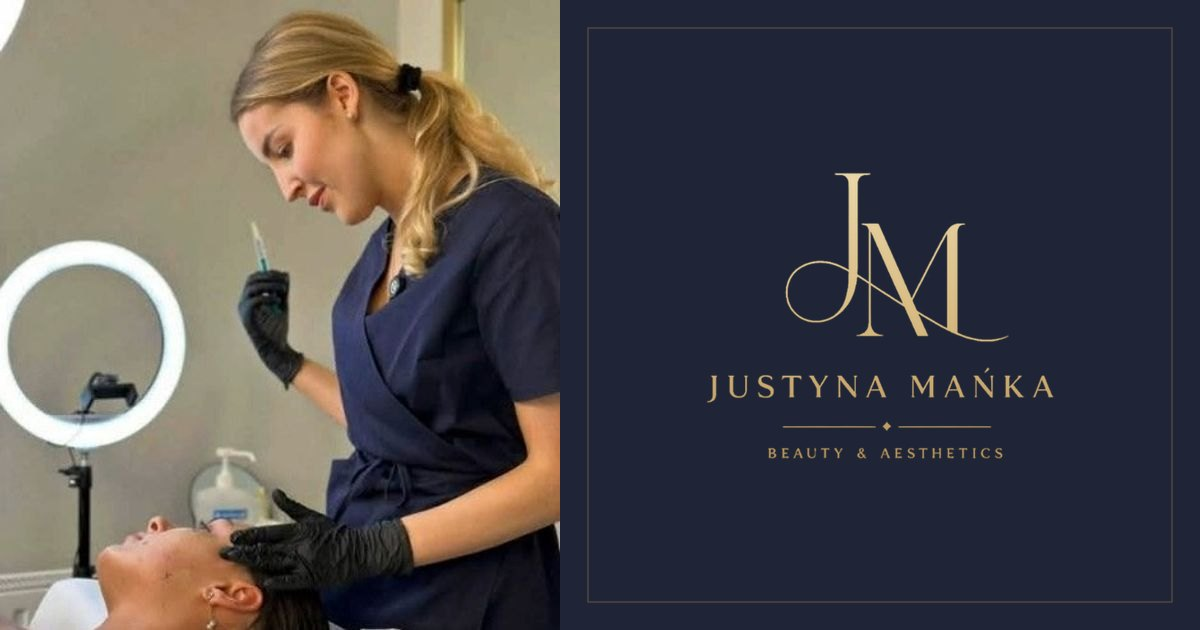
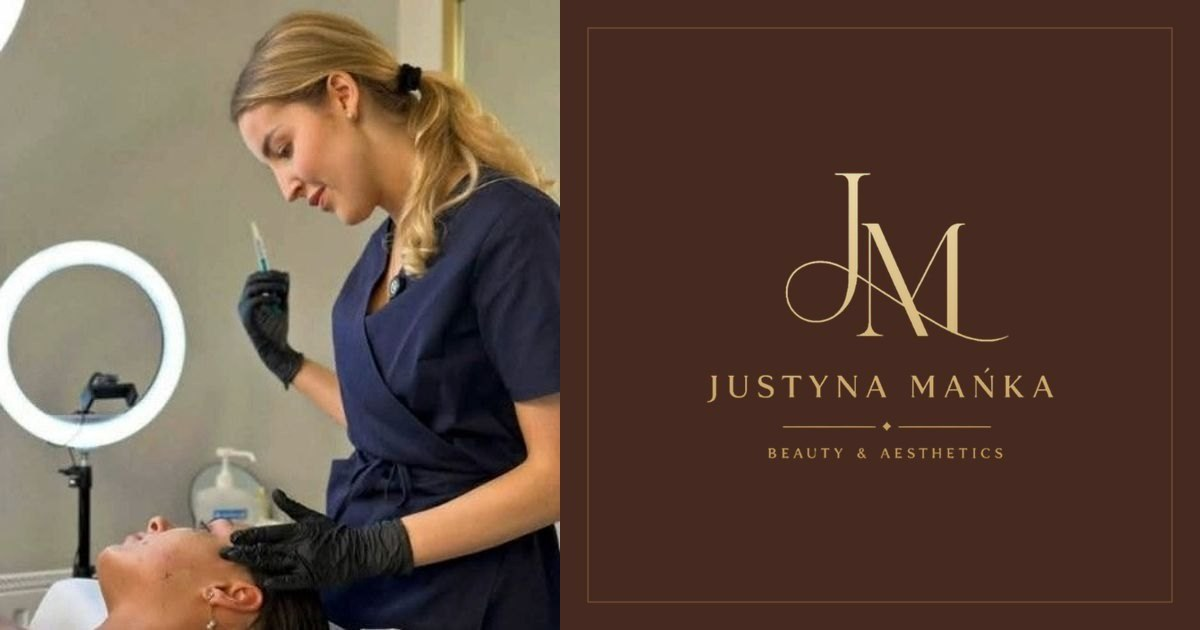
Czekoladowy brąz zamiast granatu
Kolor przewodni #462a1f (ze zdjęcia), jaśniejszy #5e443a do tekstów
pomocniczych. Zmienione też logo, ikonka strony, obrazek do udostępniania,
e-maile i wykresy w statystykach. Opis nowych funkcji w README.

Claude-Session: https://claude.ai/code/session_01Qo417vh74c6erCYT5kRkXh

diff --git a/assets/css/style.css b/assets/css/style.css
@@ -4,7 +4,7 @@
 @font-face { font-family: "Jost"; src: url("../fonts/jost.woff") format("woff"); font-weight: 100 900; font-style: normal; font-display: swap; }
 
 /* Justyna Mańka Beauty & Aesthetics — style strony
-   Paleta: ciepła biel i piasek z granatem z gabinetowego uniformu. */
+   Paleta: ciepła biel i piasek z czekoladowym brązem i złotem. */
 
 :root {
   --milk: #fbf8f3;
@@ -13,8 +13,8 @@
   --sand-deep: #e9dfd1;
   --linen: #ddd0be;
   --taupe: #6f6155;
-  --ink: #1f2536;
-  --ink-2: #353d52;
+  --ink: #462a1f;
+  --ink-2: #5e443a;
   --brass: #9c7d52;
   --ok: #3e6a50;
   --err: #9b3a2f;
@@ -397,7 +397,7 @@ body.menu-open { overflow: hidden; }
 .form-msg.ok { border-color: var(--ok); background: #eaf1ec; color: var(--ok); }
 
 .switch { appearance: none; width: 44px; height: 26px; border-radius: 999px; background: var(--linen); position: relative; cursor: pointer; flex-shrink: 0; transition: background-color .2s; margin: 0; }
-.switch::after { content: ""; position: absolute; top: 3px; left: 3px; width: 20px; height: 20px; border-radius: 50%; background: var(--paper); transition: transform .2s var(--ease); box-shadow: 0 1px 2px rgba(31, 37, 54, .2); }
+.switch::after { content: ""; position: absolute; top: 3px; left: 3px; width: 20px; height: 20px; border-radius: 50%; background: var(--paper); transition: transform .2s var(--ease); box-shadow: 0 1px 2px rgba(70, 42, 31, .2); }
 .switch:checked { background: var(--ink); }
 .switch:checked::after { background: var(--gold); }
 .switch:checked::after { transform: translateX(18px); }
@@ -411,12 +411,12 @@ body.menu-open { overflow: hidden; }
 
 /* ---------- Okna dialogowe, cookies, komunikaty ---------- */
 .modal { border: 0; padding: 0; background: var(--milk); color: var(--ink); max-width: min(560px, calc(100vw - 32px)); width: 100%; }
-.modal::backdrop { background: rgba(31, 37, 54, .5); }
+.modal::backdrop { background: rgba(70, 42, 31, .5); }
 .modal-body { padding: 32px; }
 .modal-body h2 { font-size: 1.875rem; }
 .modal-actions { display: flex; gap: 12px; flex-wrap: wrap; margin-top: 24px; }
 
-.cookie-banner { position: fixed; z-index: 60; left: 16px; bottom: 16px; max-width: 520px; background: var(--paper); border: 1px solid var(--linen); padding: 24px; box-shadow: 0 18px 50px rgba(31, 37, 54, .14); }
+.cookie-banner { position: fixed; z-index: 60; left: 16px; bottom: 16px; max-width: 520px; background: var(--paper); border: 1px solid var(--linen); padding: 24px; box-shadow: 0 18px 50px rgba(70, 42, 31, .14); }
 .cookie-banner h2 { font-size: 1.375rem; margin-bottom: 8px; }
 .cookie-banner p { font-size: .9375rem; color: var(--ink-2); }
 .cookie-actions { display: flex; flex-wrap: wrap; gap: 10px; align-items: center; }
@@ -926,8 +926,8 @@ html[lang="en"] [data-lang="pl"] { display: none !important; }
 .chart-legend { display: flex; gap: 20px; list-style: none; padding: 0; margin: 16px 0 8px; font-size: .875rem; color: var(--ink-2); }
 .chart-legend li { display: inline-flex; align-items: center; gap: 8px; }
 .chart-legend i { width: 12px; height: 12px; border-radius: 2px; }
-.key-done { background: #1f2536; }
-.key-plan { background: #8a92a8; }
+.key-done { background: var(--ink); }
+.key-plan { background: #a2857a; }
 /* kolumny: wartość wizyt w miesiącu */
 .cc { --gutter: 76px; margin-top: 8px; }
 .cc-plot { position: relative; height: 232px; margin: 28px 0 0 var(--gutter); border-bottom: 1px solid var(--taupe); }
@@ -941,10 +941,10 @@ html[lang="en"] [data-lang="pl"] { display: none !important; }
 .cc-stack { position: relative; width: min(24px, 56%); display: flex; flex-direction: column; gap: 2px; }
 .cc-stack i { display: block; flex-basis: 0; min-height: 2px; }
 .cc-stack i:first-of-type { border-radius: 4px 4px 0 0; }
-.cc-done { background: #1f2536; }
-.cc-plan { background: #8a92a8; }
-.cc-col:hover .cc-done, .cc-col:focus-visible .cc-done { background: #353d52; }
-.cc-col:hover .cc-plan, .cc-col:focus-visible .cc-plan { background: #9aa1b3; }
+.cc-done { background: var(--ink); }
+.cc-plan { background: #a2857a; }
+.cc-col:hover .cc-done, .cc-col:focus-visible .cc-done { background: var(--ink-2); }
+.cc-col:hover .cc-plan, .cc-col:focus-visible .cc-plan { background: #b2958a; }
 .cc-cap { position: absolute; bottom: calc(100% + 6px); left: 50%; transform: translateX(-50%); font-size: .8125rem; font-weight: 500; color: var(--ink); white-space: nowrap; }
 .cc-x { display: grid; grid-template-columns: repeat(12, minmax(0, 1fr)); margin-left: var(--gutter); padding-top: 8px; font-size: .75rem; line-height: 1.3; color: var(--taupe); text-align: center; }
 .cc-x .is-current { color: var(--ink); font-weight: 500; }
@@ -955,8 +955,8 @@ html[lang="en"] [data-lang="pl"] { display: none !important; }
 .hb-row:focus-visible { box-shadow: inset 0 0 0 2px var(--ink); }
 .hb-name { font-size: .9375rem; line-height: 1.3; }
 .hb-track { display: flex; align-items: center; gap: 8px; min-width: 0; }
-.hb-track i { display: block; height: 12px; min-width: 2px; background: #1f2536; border-radius: 0 4px 4px 0; }
-.hb-row:hover .hb-track i, .hb-row:focus-visible .hb-track i { background: #353d52; }
+.hb-track i { display: block; height: 12px; min-width: 2px; background: var(--ink); border-radius: 0 4px 4px 0; }
+.hb-row:hover .hb-track i, .hb-row:focus-visible .hb-track i { background: var(--ink-2); }
 .hb-track b { font-weight: 500; font-size: .875rem; font-variant-numeric: tabular-nums; white-space: nowrap; }
 .chart-table { margin-top: 18px; font-size: .875rem; }
 .chart-table summary { cursor: pointer; color: var(--ink-2); text-decoration: underline; text-underline-offset: 3px; text-decoration-color: var(--linen); width: max-content; }
@@ -968,7 +968,7 @@ html[lang="en"] [data-lang="pl"] { display: none !important; }
 .stats-dl dt { color: var(--ink-2); font-size: .9375rem; }
 .stats-dl dd { margin: 0; font-weight: 500; text-align: right; white-space: nowrap; }
 /* dymek */
-.chart-tip { position: fixed; z-index: 300; display: none; min-width: 160px; max-width: 280px; padding: 10px 12px; background: var(--paper); border: 1px solid var(--linen); box-shadow: 0 6px 20px rgba(31, 37, 54, .12); font-size: .8125rem; color: var(--ink-2); pointer-events: none; }
+.chart-tip { position: fixed; z-index: 300; display: none; min-width: 160px; max-width: 280px; padding: 10px 12px; background: var(--paper); border: 1px solid var(--linen); box-shadow: 0 6px 20px rgba(70, 42, 31, .12); font-size: .8125rem; color: var(--ink-2); pointer-events: none; }
 .chart-tip .tip-title { margin: 0 0 6px; font-weight: 500; color: var(--ink); }
 .chart-tip .tip-row { display: flex; align-items: center; gap: 6px; line-height: 1.6; }
 .chart-tip .tip-row b { color: var(--ink); font-weight: 500; font-variant-numeric: tabular-nums; }

diff --git a/server/messaging.js b/server/messaging.js
@@ -41,10 +41,10 @@ const sms = {
 
 function emailLayout(lang, title, inner) {
   return `<!DOCTYPE html><html lang="${lang}"><head><meta charset="utf-8"><meta name="viewport" content="width=device-width"><title>${esc(title)}</title></head>
-<body style="margin:0;background:#f3ece2;font-family:Helvetica,Arial,sans-serif;color:#1f2536">
+<body style="margin:0;background:#f3ece2;font-family:Helvetica,Arial,sans-serif;color:#462a1f">
 <table role="presentation" width="100%" cellpadding="0" cellspacing="0" style="background:#f3ece2;padding:32px 12px"><tr><td align="center">
 <table role="presentation" width="100%" cellpadding="0" cellspacing="0" style="max-width:560px;background:#fffdf9;border:1px solid #e9dfd1">
-<tr><td style="background:#1f2536;padding:28px 32px;text-align:center">
+<tr><td style="background:#462a1f;padding:28px 32px;text-align:center">
   <div style="font-family:Georgia,serif;font-size:20px;letter-spacing:4px;color:#d6b97f">JUSTYNA MAŃKA</div>
   <div style="font-size:10px;letter-spacing:4px;color:#ecd9aa;margin-top:6px">BEAUTY &amp; AESTHETICS</div>
 </td></tr>
@@ -57,7 +57,7 @@ function emailLayout(lang, title, inner) {
   ${esc(S.phone)} · <a href="mailto:${esc(S.email)}" style="color:#9c7d52">${esc(S.email)}</a>
 </td></tr></table></td></tr></table></body></html>`;
 }
-const button = (href, label) => `<p style="margin:28px 0"><a href="${esc(href)}" style="display:inline-block;background:#1f2536;color:#ecd9aa;text-decoration:none;padding:14px 26px;letter-spacing:1px">${esc(label)}</a></p>`;
+const button = (href, label) => `<p style="margin:28px 0"><a href="${esc(href)}" style="display:inline-block;background:#462a1f;color:#ecd9aa;text-decoration:none;padding:14px 26px;letter-spacing:1px">${esc(label)}</a></p>`;
 const row = (k, v) => `<tr><td style="padding:6px 16px 6px 0;color:#6f6155;vertical-align:top">${esc(k)}</td><td style="padding:6px 0">${v}</td></tr>`;
 
 function fmtLongDate(dateStr, lang) {

diff --git a/assets/css/bon.css b/assets/css/bon.css
@@ -1,11 +1,11 @@
-/* Bon podarunkowy: A5 poziomo, granat ze złotem i beż */
+/* Bon podarunkowy: A5 poziomo, czekoladowy brąz ze złotem i beż */
 .bon-body { background: var(--sand); min-height: 100vh; }
 .bon-toolbar { max-width: 210mm; margin: 32px auto 20px; display: flex; justify-content: space-between; align-items: center; gap: 16px; flex-wrap: wrap; font-size: .875rem; color: var(--taupe); }
 .bon-toolbar p { margin: 0; flex: 1 1 300px; }
 .bon-toolbar .btn-row { margin: 0; }
 .voucher {
   width: 210mm; height: 148mm; margin: 0 auto 48px; display: grid; grid-template-columns: 62mm 1fr;
-  background: var(--paper); box-shadow: 0 18px 50px rgba(31, 37, 54, .14); overflow: hidden;
+  background: var(--paper); box-shadow: 0 18px 50px rgba(70, 42, 31, .14); overflow: hidden;
   -webkit-print-color-adjust: exact; print-color-adjust: exact;
 }
 .v-side { background: var(--ink); display: grid; place-items: center; position: relative; }

diff --git a/README.md b/README.md
@@ -49,12 +49,14 @@ Prawdziwa wysyłka włącza się w pliku `.env` (wzór: `.env.example`): SMS prz
 | `index.html` | Strona główna: baner z logo, kategorie zabiegów, korzyści z konta, jak umówić wizytę, sekcja „O mnie” |
 | `zabiegi.html` | Opisy wszystkich zabiegów w rozwijanych zakładkach, przygotowanie, przeciwwskazania, zalecenia |
 | `cennik.html` | Cennik w tabelach + najczęstsze pytania |
-| `rezerwacja.html` | Rezerwacja w 4 krokach: zabieg, kalendarz wolnych terminów, dane (gość / logowanie / rejestracja), potwierdzenie z podglądem SMS i plikiem do kalendarza |
+| `rezerwacja.html` | Rezerwacja w 4 krokach: zabieg, kalendarz wolnych terminów, dane (gość / logowanie / rejestracja), potwierdzenie z podglądem SMS i plikiem do kalendarza. Pole na kod bonu podarunkowego i zapis na listę oczekujących pod kalendarzem |
 | `konto.html` | Logowanie, rejestracja ze zgodami, reset hasła przez e-mail, profil: wizyty, odwoływanie, oferty, dane, zgody z historią, usuwanie konta |
 | `galeria.html` | Galeria efektów ze zdjęciami dodanymi w panelu: filtr kategorii, powiększenie (strzałki, przesuwanie palcem). Bez zdjęć pokazuje odnośnik do Instagrama |
 | `wizyta.html` | Strona wizyty z linku w SMS-ie i e-mailu: podgląd, zmiana terminu i odwołanie bez logowania (adres `/w/<klucz>`) |
+| `lista-oczekujacych.html` | Strona z linku w SMS-ie listy oczekujących: wolne terminy z przyciskiem rezerwacji i wypisanie się z listy (adres `/l/<klucz>`) |
+| `bon.html` | Bon podarunkowy do druku albo zapisania jako PDF (A5 poziomo), otwierany z panelu |
 | `kontakt.html` | Dane kontaktowe, godziny, formularz, mapa Google wczytywana dopiero po zgodzie |
-| `panel.html` | Panel gabinetu: kalendarz tygodnia (wizyty z telefonu i Instagrama, blokowanie godzin, przenoszenie), wizyty (odwołanie, nieobecność, opłaty), klientki z eksportem CSV, ceny z historią, promocje, galeria (zdjęcia ze zgodą klientki, opis PL/EN, ukrywanie, kolejność), SMS-y i e-maile, dni wolne, zmiana hasła |
+| `panel.html` | Panel gabinetu: kalendarz tygodnia (wizyty z telefonu i Instagrama, blokowanie godzin, przenoszenie), wizyty (odwołanie, nieobecność, opłaty), lista oczekujących, klientki z eksportem CSV, statystyki, ceny z historią, promocje, bony podarunkowe, galeria (zdjęcia ze zgodą klientki, opis PL/EN, ukrywanie, kolejność), SMS-y i e-maile, dni wolne, zmiana hasła, kalendarz w telefonie, kopie zapasowe |
 | `regulamin.html`, `polityka-prywatnosci.html`, `polityka-cookies.html` | Projekty dokumentów |
 
 Zasady:
@@ -68,6 +70,10 @@ Zasady:
 - Panel odświeża się sam (kalendarz, pulpit, wizyty), gdy klientka zarezerwuje, przeniesie albo odwoła wizytę; pokazuje powiadomienie, licznik w tytule karty i opcjonalnie powiadomienie systemowe.
 - Wizyty umówione telefonicznie, przez Instagram albo w gabinecie wpisuje się w panelu (Kalendarz). Od razu znikają z rezerwacji online, tak samo jak zablokowane godziny (przerwa, wyjście). Dwie wizyty nie mogą na siebie nachodzić; wizytę poza godzinami pracy panel zapisze po potwierdzeniu.
 - Klientka może sama zmienić termin (w profilu albo przez link z SMS-a) najpóźniej 12 h przed wizytą, tylko na wolny termin. Dostaje SMS z nowym terminem, a przypomnienie wyśle się do nowej godziny.
+- **Kalendarz w telefonie:** w panelu (Moje konto) jest prywatny link do kalendarza. Po dodaniu go w iPhonie (Ustawienia → Kalendarz → Konta → Dodaj konto → Inne → Dodaj subskrybowany kalendarz) albo w Kalendarzu Google („Inne kalendarze” → „+” → „Z adresu URL”) wizyty i blokady pokazują się w telefonie i aktualizują same: iPhone sprawdza zmiany częściej, Google co kilka godzin. Działa po publikacji strony; lokalnie można pobrać plik .ics. W kalendarzu jest tylko zabieg i imię z inicjałem, bez telefonów. Link można w każdej chwili unieważnić i wygenerować nowy.
+- **Bony podarunkowe:** wystawiasz je w panelu (kwota, ważność, dla kogo, od kogo, dedykacja) i drukujesz albo zapisujesz jako PDF. Klientka wpisuje kod przy rezerwacji online albo podaje go w gabinecie. Kwota bonu jest rezerwowana przy rezerwacji i schodzi z salda dopiero po odbytej wizycie; odwołanie wizyty zwalnia rezerwację. Bon można wykorzystać w kilku częściach, rozliczyć ręcznie w panelu albo unieważnić. Zasady są w regulaminie (§ 7a).
+- **Statystyki:** wartość wizyt miesiąc po miesiącu (odbyte i zaplanowane), wizyty i nowe klientki w bieżącym miesiącu, odwołania i nieobecności, najczęstsze zabiegi, skąd przychodzą rezerwacje i bony. Każdy wykres ma podgląd po najechaniu i tabelę z danymi.
+- **Lista oczekujących:** gdy na wybrany zabieg nie ma wolnego terminu, klientka zapisuje się na okres (np. dwa tygodnie). Gdy w tym okresie zwolni się miejsce (odwołanie, przeniesienie, zdjęta blokada albo dzień wolny), dostaje SMS z linkiem; termin ma ta osoba, która pierwsza zarezerwuje. SMS-y wychodzą między 8:00 a 21:00, najwyżej jeden na 6 godzin dla jednej osoby i jeden o danym dniu. Rezerwacja tego zabiegu kończy czekanie, a dane znikają 30 dni po końcu okresu. Osobę, która dzwoni, można dopisać w panelu.
 - Strona ma wersję angielską (przełącznik PL / EN w nagłówku). Domyślnie i przy pierwszej wizycie strona jest po polsku; wybór języka zapamiętuje przeglądarka. Panel gabinetu jest zawsze po polsku, a rezerwacje zapisują polską nazwę zabiegu. Dokumenty prawne mają tłumaczenie z dopiskiem, że wiążąca jest wersja polska.
 
 ### Gdzie co zmieniać
@@ -76,7 +82,7 @@ Zasady:
 - `assets/js/treatments.js`: zabiegi, opisy, czas trwania, ceny
 - `assets/js/treatments.en.js`: angielskie nazwy i opisy zabiegów (te same identyfikatory co w `treatments.js`)
 - `assets/js/i18n.js`: przełączanie języka. Teksty w skryptach: `JM.L('po polsku', 'in English')`; w HTML: `<span data-lang="pl">…</span><span data-lang="en">…</span>`
-- `assets/css/style.css`: wygląd (kolory na górze pliku)
+- `assets/css/style.css`: wygląd (kolory na górze pliku: ciepła biel, piasek, czekoladowy brąz `--ink` i złoto)
 - `server/`: serwer, API, zasady rezerwacji (`booking.js`), SMS-y i e-maile (`messaging.js`)
 - Ceny można też zmieniać w panelu gabinetu; zapisują się w bazie z historią zmian i mają pierwszeństwo przed cenami z `treatments.js`.
 
